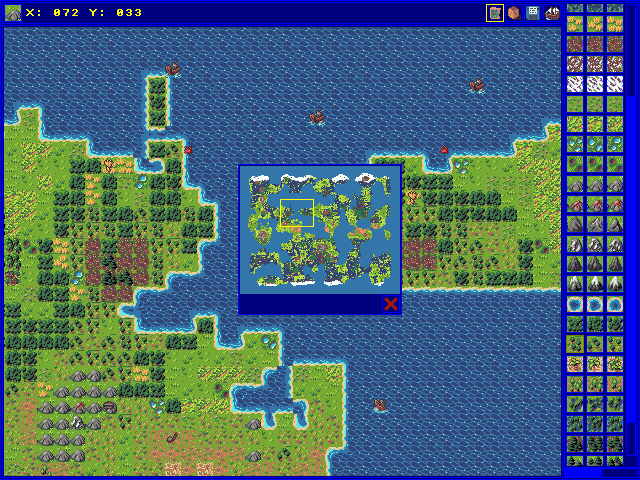
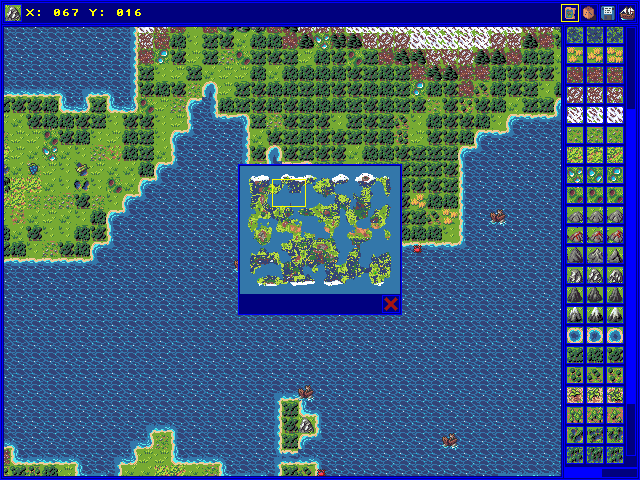
changed root window layout

diff --git a/include/ui_definitions.h b/include/ui_definitions.h
@@ -14,7 +14,7 @@
 
 #define UI_BORDER_SIZE 2
 
-#define UI_STATUS_WIDTH 241
+#define UI_STATUS_WIDTH 316
 #define UI_STATUS_HEIGHT 22
 
 #define UI_MAP_WIDTH 241
@@ -22,15 +22,16 @@
 #define UI_MAP_Y_POS 25
 
 #define UI_TILE_WIDTH 74
-#define UI_TILE_HEIGHT 252
+#define UI_TILE_HEIGHT 229
 #define UI_TILE_X_POS 244
+#define UI_TILE_Y_POS 25
 #else
 #define UI_WIDTH 640
 #define UI_HEIGHT 480
 
 #define UI_BORDER_SIZE 2
 
-#define UI_STATUS_WIDTH 561
+#define UI_STATUS_WIDTH 636
 #define UI_STATUS_HEIGHT 22
 
 #define UI_MAP_WIDTH 561
@@ -38,8 +39,9 @@
 #define UI_MAP_Y_POS 25
 
 #define UI_TILE_WIDTH 74
-#define UI_TILE_HEIGHT 476
+#define UI_TILE_HEIGHT 453
 #define UI_TILE_X_POS 564
+#define UI_TILE_Y_POS 25
 #endif
 
 #define UPDATE_INTERVAL 60// ms

diff --git a/src/main.c b/src/main.c
@@ -116,7 +116,7 @@ int main(int argc, char **argv) {
     ui_component_connect(&app.root, editor.map);
 
     // tile view
-    UILayeredContainer_t *layered_container = ui_layered_container_create(UI_TILE_X_POS, UI_BORDER_SIZE, UI_TILE_WIDTH, UI_TILE_HEIGHT);
+    UILayeredContainer_t *layered_container = ui_layered_container_create(UI_TILE_X_POS, UI_TILE_Y_POS, UI_TILE_WIDTH, UI_TILE_HEIGHT);
 
     editor.tile = ui_tile_create(0, 0, UI_TILE_WIDTH, UI_TILE_HEIGHT - SCROLL_BAR_SIZE, &editor.tiles_map);
     ui_component_connect(layered_container, editor.tile);
